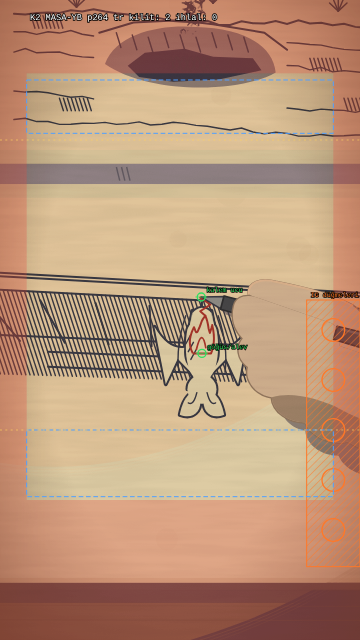
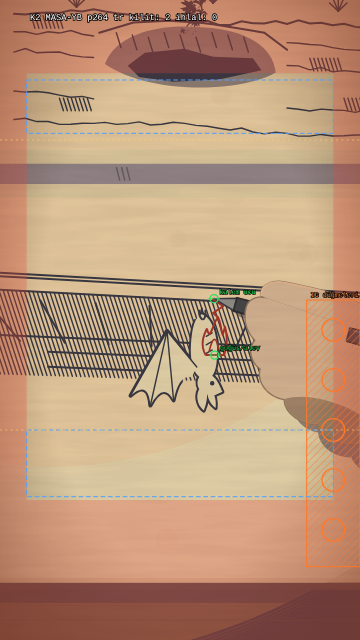
Kit yarasa: profil görünüşlü asılı yarasa, defter çizimi, yumuşak gök, P10 ön plan (kalibrasyon tur 3)
Claude-Session: https://claude.ai/code/session_016TQpGZNQxZz3y2EUbxhNYZ

diff --git a/src/kit/sablonlar/colus/ColUs.tsx b/src/kit/sablonlar/colus/ColUs.tsx
@@ -60,10 +60,11 @@ const Gok: React.FC<{ pr: Proj; g: Gorunum }> = ({ pr, g }) => {
   const dist = Math.max(0, -sun[0]);
   return (
     <g>
-      {sinir.map(([y, c], i) => <rect key={i} x={-1200} y={y} width={3480} height={(sinir[i + 1]?.[0] ?? U + 40) - y + 1} fill={c} />)}
-      {/* litografi geçişi: sınırın üstünde alt tonda 3 ince çizgi + nokta */}
-      {g !== "yanik" && sinir.slice(1).map(([y], i) => <g key={i}>
-        {Array.from({ length: 70 }).map((_, j) => <circle key={`n${j}`} cx={-200 + r(`gn${i}${j}`) * 1480} cy={y - 8 - r(`gy${i}${j}`) * 26} r={1.1} fill={sinir[i + 1][1]} opacity={0.6} />)}</g>)}
+      {/* 2. tur (orkestra): sert bant yok → aynı 5 tonla yumuşak dikey geçiş (bant merkezleri durak) */}
+      <defs><linearGradient id={`cuGok${g}`} gradientUnits="userSpaceOnUse" x1={0} y1={-2000} x2={0} y2={U + 40}>
+        {(g === "yanik" ? [...sinir.map(([y, c]) => [Math.max(y, 0) + (y > 0 ? 60 : 0), c] as [number, string]), [700, CP.gok[0]] as [number, string]] : sinir.map(([y, c], i) => [Math.max(-2000, (Math.max(y, -400) + (sinir[i + 1]?.[0] ?? U + 40)) / 2), c] as [number, string])).map(([m, c], i) => <stop key={i} offset={Math.min(1, (m + 2000) / (U + 2040))} stopColor={c} />)}
+        <stop offset={1} stopColor={sinir[sinir.length - 1][1]} /></linearGradient></defs>
+      <rect x={-1200} y={-2000} width={3480} height={U + 2042} fill={`url(#cuGok${g})`} />
       {/* güneş parıltısı: disk çizilmez; 4 düz halka (litografi basamağı, yumuşak gradyan yok) */}
       {g !== "yanik" && <><clipPath id="cuParilti"><rect x={-1200} y={U - 330 * f} width={3480} height={400} /></clipPath>
         <g style={{ mixBlendMode: "screen" }} clipPath="url(#cuParilti)">{[520, 300, 140].map((dr, i) => <circle key={i} cx={sun[0]} cy={sun[1]} r={dist + dr} fill="#f6dcb8" opacity={0.14} />)}</g></>}
@@ -327,7 +328,11 @@ const Golgeler: React.FC<{ pr: Proj; kat: "zemin" | "duvar" }> = ({ pr, kat }) =
 };
 
 // ---------- tünek dalgası + köz nabzı ----------
-type TunekP = { bas: number; bit: number; adet: number; seed?: number };
+// olcek: gövde boyu = 0.11 m × olcek (kalibrasyon 3: 1.6, yakın birey 360 px'te ≥ 60 px); yuzey: tünek id öneki süzgeci (ör. ["semer0"]);
+// acik_n: en yakın n birey kanadı yarı açık (taraklı kenar + parmak çizgileri net)
+type TunekP = { bas: number; bit: number; adet: number; seed?: number; olcek?: number; yuzey?: string[]; acik_n?: number };
+const tunekU = (td: TunekP, pr: Proj, v: V3) => 0.11 * (td.olcek ?? 1.6) * pr.pxm(v);
+const tunekYon = (sd: number, i: number): 1 | -1 => (random(`ty${sd}${i}`) < 0.5 ? 1 : -1);
 type Nabiz = { bas: number; periyot?: [number, number]; bit?: number };
 const nabizDeger = (nb: Nabiz | null, p: number, faz: number) => {
   if (!nb || p < nb.bas) return 0;
@@ -335,44 +340,47 @@ const nabizDeger = (nb: Nabiz | null, p: number, faz: number) => {
   const ph = Math.abs(T1 - T0) < 1e-3 ? x / T0 : (L / (T1 - T0)) * Math.log((T0 + (T1 - T0) * (x / L)) / T0) + Math.max(0, p - nb.bas - L) / T1;
   return 0.35 + 0.65 * (0.5 + 0.5 * Math.sin(2 * Math.PI * (ph + faz) - Math.PI / 2));
 };
-export const tunekListesi = (pr: Proj, adet: number) => TUNEKLER
+export const tunekListesi = (pr: Proj, adet: number, td?: TunekP) => TUNEKLER
+  .filter((t) => !td?.yuzey || td.yuzey.some((y) => t.id.startsWith(y)))
   .map((t) => ({ ...t, e: pr.P(t.v) }))
   .filter((t) => { // tank gövdesinin arkasında kalan tünek seçilmez (önde olan arkadakini örter)
     const c: V3 = [pr.kam.C[0], pr.kam.goz, pr.kam.C[1]], L: V3 = [t.v[0] - c[0], t.v[1] - c[1], t.v[2] - c[2]], s = tankKesis(c, L);
     return s === null || s > 0.97; })
   .filter((t) => t.e && t.e[0] > -60 && t.e[0] < 1140 && t.e[1] > -60 && t.e[1] < 1980)
   .sort((a, b) => pr.z(a.v) - pr.z(b.v)) // yakın önce; ekranda üst üste binen (aralık < 0.55 gövde boyu) elenir
-  .reduce((acc, t) => { const u = 0.11 * 1.25 * pr.pxm(t.v); if (!acc.some((q) => Math.abs(q.e![0] - t.e![0]) < 0.55 * u * 1.6 && Math.abs(q.e![1] - t.e![1]) < 1.6 * u)) acc.push(t); return acc; }, [] as (Tunek0 & { e: P | null })[])
+  .reduce((acc, t) => { const u = 0.11 * (td?.olcek ?? 1.6) * pr.pxm(t.v); if (!acc.some((q) => Math.abs(q.e![0] - t.e![0]) < 0.75 * u && Math.abs(q.e![1] - t.e![1]) < 1.2 * u)) acc.push(t); return acc; }, [] as (Tunek0 & { e: P | null })[])
   .sort((a, b) => a.e![0] - b.e![0]).slice(0, adet);
 type Tunek0 = (typeof TUNEKLER)[number];
 const Tunemis: React.FC<{ pr: Proj; plan: Plan; p: number; alev: boolean }> = ({ pr, plan, p, alev }) => {
   const td = param<TunekP | null>(plan, "tunek_dalgasi", null); if (!td) return null;
   const nb = param<Nabiz | null>(plan, "kapsul_nabiz", null), kv = param<{ kare: number; tunek: number }[]>(plan, "kivilcim_dizisi", []);
   const stil = alev ? "gomulu" : param<"gercek" | "gomulu">(plan, "tunek_stil", "gercek");
-  const L = tunekListesi(pr, td.adet), sd = td.seed ?? 5;
+  const L = tunekListesi(pr, td.adet, td), sd = td.seed ?? 5;
+  const yakin = [...L].sort((a, b) => pr.z(a.v) - pr.z(b.v)).slice(0, td.acik_n ?? 2).map((t) => t.id);
   return <g>{L.map((t, i) => {
     const a = td.bas + (td.bit - td.bas) * (L.length > 1 ? i / (L.length - 1) : 0) + (random(`tk${sd}${i}`) - 0.5) * 16;
-    const e = t.e!, u = 0.11 * 1.25 * pr.pxm(t.v), uc = 46;
+    const e = t.e!, u = tunekU(td, pr, t.v), uc = 46, yx = tunekYon(sd, i);
     const kivi = kv.find((q) => q.tunek === i && p >= q.kare);
     const kapsul = kivi ? "kivilcim" : nb && p >= nb.bas ? "koz" : "kapsul";
     const nab = nabizDeger(nb, p, random(`nf${sd}${i}`));
     if (p < a - uc) return null;
     if (p < a) { // uçarak gelir: soldan-alttan, kanat çırpar
       const q = (p - (a - uc)) / uc, e0: P = [e[0] - 420 - 160 * random(`tx${i}`), e[1] + 260 + 120 * random(`ty${i}`)];
-      const qq = GIRIS(q), x = e0[0] + (e[0] - e0[0]) * qq, y = e0[1] + (e[1] - e0[1]) * qq - Math.sin(Math.PI * q) * 90;
-      return <Yarasa key={i} z={{ x, y: y + 0.52 * u, u, faz: (p / 10) % 1, kanat: 0.05, aci: -20 + 30 * q, stil, kenar: true, kapsul }} />;
+      const qq = GIRIS(q), x = e0[0] + (e[0] - e0[0]) * qq, y = e0[1] + (e[1] - e0[1]) * qq + Math.sin(Math.PI * q) * 60; // tüneğe ALTTAN yaklaşır (kirişin üstünden aşmaz)
+      return <Yarasa key={i} z={{ x, y: y + 0.52 * u * Math.min(1, (1 - q) * 3) + 0.6 * u, u, faz: (p / 10) % 1, kanat: 0.05, aci: -20 + 30 * q, stil, kenar: true, kapsul }} />;
     }
-    const d = p - a, don = interpolate(d, [0, 10], [0, 180], { ...cl, easing: GIRIS }), kat = interpolate(d, [0, 16], [0.1, random(`kk${sd}${i}`) < 0.6 ? 0.68 : 0.92], { ...cl, easing: GIRIS });
-    const sallan = Math.sin(d / 9) * 6 * Math.exp(-d / 30);
-    return <Yarasa key={i} z={{ x: e[0], y: e[1], capa: "ayak", u, aci: 180 + sallan - (180 - don), kanat: kat, faz: 0.25, nefes: 0.5 + 0.5 * Math.sin(p / 9 + i), stil, kenar: stil === "gercek", kapsul, nabiz: nab }} />;
+    // temas: ayak tünek alt yüzüne değer → profil asılı görünüş; 10 karede ters döner (dönüş ayak çevresinde), 16 karede kanat yerleşir
+    const d = p - a, don = interpolate(d, [0, 10], [0, 180], { ...cl, easing: GIRIS }), kat = interpolate(d, [0, 16], [0.3, yakin.includes(t.id) ? 0.42 : 0.95], { ...cl, easing: GIRIS });
+    const sallan = Math.sin(d / 9) * 5 * Math.exp(-d / 30);
+    return <g key={i} transform={`rotate(${don - 180 + sallan} ${e[0]} ${e[1]})`}><Yarasa z={{ x: e[0], y: e[1], u, gorus: "profil", yonX: yx, kanat: kat, stil, kenar: stil === "gercek", kapsul, nabiz: nab, arkaIsik: true }} /></g>;
   })}</g>;
 };
 const Kivilcimlar: React.FC<{ pr: Proj; plan: Plan; p: number }> = ({ pr, plan, p }) => {
   const kv = param<{ kare: number; tunek: number; siddet?: number }[]>(plan, "kivilcim_dizisi", []), td = param<TunekP | null>(plan, "tunek_dalgasi", null);
   if (!kv.length || !td) return null;
-  const L = tunekListesi(pr, td.adet), cs = kameraHesapla(plan.kamera, p).cs;
+  const L = tunekListesi(pr, td.adet, td), cs = kameraHesapla(plan.kamera, p).cs, sd = td.seed ?? 5;
   return <g>{kv.map((q, i) => { const t = L[q.tunek]; if (!t || p < q.kare) return null;
-    const u = 0.11 * 1.25 * pr.pxm(t.v), e: P = [t.e![0], t.e![1] + 0.75 * u]; // kapsül başı (asılı: baş aşağı)
+    const u = tunekU(td, pr, t.v), e: P = [t.e![0] + 0.15 * u * tunekYon(sd, q.tunek), t.e![1] + 0.62 * u]; // profil: yan-göğüs kapsülün baş ucu
     const d = p - q.kare, sn = interpolate(d, [0, 10], [1, 0.5], cl), R = 60 / cs;
     return <g key={i}>
       <circle cx={e[0]} cy={e[1] - 0.25 * u} r={R} fill={YR.amber} opacity={0.28 * sn} />
@@ -506,7 +514,7 @@ const Sahne: React.FC<SablonProps> = ({ plan, p, kilit }) => {
   const katGor = (i: number) => !bs.aktif || bs.ilerle - i > 0;
   const tankZ = pr.z(W(0, TANK.t, 0));
   const calis = CALILAR.map((c) => ({ ...c, z: pr.z(c.v) })).filter((c) => c.z > 0.5);
-  if (td(plan)) tunekListesi(pr, td(plan)!.adet).forEach((t, i) => kilit.push({ ad: `tünek ${i}`, p: [540 + k.cx + (t.e![0] - 540) * k.cs, 960 + k.cy + (t.e![1] - 960) * k.cs], tur: "temas" }));
+  if (td(plan)) tunekListesi(pr, td(plan)!.adet, td(plan)!).forEach((t, i) => kilit.push({ ad: `tünek ${i}`, p: [540 + k.cx + (t.e![0] - 540) * k.cs, 960 + k.cy + (t.e![1] - 960) * k.cs], tur: "temas" }));
   const H = cizimHatlari();
   const T1 = [H.H2[0], H.H2[1], H.H3[1], H.H3[0]], T2 = [H.H3[0], H.H3[1], H.H4[1], H.H4[0]];
   const kx = interpolate(bs.kirmizi, [0, 1], [-200, 1280]);

diff --git a/src/kit/props/yarasa/Yarasa.tsx b/src/kit/props/yarasa/Yarasa.tsx
@@ -25,6 +25,8 @@ export type YarasaPoz = {
   basDon?: number;           // baş dönüşü (derece, yakın plan)
   ciz?: number;              // murekkep: çizim ilerlemesi 0…1 (stroke)
   gogusBos?: boolean;        // murekkep: göğüs boş daire (P02)
+  gorus?: "on" | "profil";   // profil: asılı (baş aşağı) yan görünüş — ayaklar (x,y)'de, gövde aşağı sarkar; aci yok sayılır
+  yonX?: 1 | -1;             // profil: karın yönü (ekranda sağ +1 / sol −1)
 };
 
 export const YR = {
@@ -85,7 +87,63 @@ export const Kapsul: React.FC<{ durum: KapsulDurum; nabiz?: number; w: number }>
   );
 };
 
+// ---- PROFİL ASILI (kalibrasyon 3, orkestra yönü): ayak (0,0) tünekte, gövde +y'ye sarkar, baş en altta (sivri kulak + burun).
+// Kanat k: 1 katlı (bilek ayak yanında, önkol sırtta, başparmak tüneğe yakın) … 0.4 yarı açık (zar aşağı-dışa sarkar: taraklı kenar + parmak çizgileri).
+// Kapsül yan-göğüste, boy ≤ %22 gövde, mat; köz yalnız uçta küçük çekirdek. x ekseni karın yönüne göre (yonX) aynalanır.
+const pl = (a: P, b: P, t: number): P => [a[0] + (b[0] - a[0]) * t, a[1] + (b[1] - a[1]) * t];
+export const profilNokta = (kanat: number) => {
+  const t = Math.min(1, Math.max(0, (1 - kanat) / 0.6)); // 0 katlı … 1 yarı açık
+  const omuz: P = [-0.06, 0.66], bilek = pl([-0.1, 0.1], [-0.42, 0.24], t), d3 = pl([-0.16, 0.86], [-0.86, 1.0], t), d4 = pl([-0.14, 0.82], [-0.62, 1.12], t), d5 = pl([-0.11, 0.78], [-0.34, 1.06], t);
+  return { omuz, bilek, d3, d4, d5, govdeYan: [-0.12, 0.78] as P, kapsul: [0.15, 0.5] as P };
+};
+const profilYollar = (kanat: number) => {
+  const K = profilNokta(kanat), F = (q: P) => `${q[0].toFixed(3)},${q[1].toFixed(3)}`;
+  const zar = `M${F(K.omuz)} L${F(K.bilek)} L${F(K.d3)} ${tarak(K.d3, K.d4, K.bilek, 0.3)} ${tarak(K.d4, K.d5, K.bilek, 0.3)} ${tarak(K.d5, K.govdeYan, K.bilek, 0.25)} Z`;
+  const kemik = `M${F(K.omuz)} L${F(K.bilek)} M${F(K.bilek)} L${F(K.d3)} M${F(K.bilek)} L${F(K.d4)} M${F(K.bilek)} L${F(K.d5)}`;
+  const govde = "M0,0.04 C0.16,0.1 0.2,0.4 0.17,0.62 C0.15,0.76 0.1,0.8 0.04,0.8 C-0.08,0.8 -0.14,0.62 -0.13,0.42 C-0.12,0.2 -0.08,0.06 0,0.04 Z";
+  const bas = "M0.04,0.74 C0.16,0.74 0.2,0.86 0.24,0.95 L0.15,0.99 C0.1,1.0 0.02,0.98 -0.03,0.92 C-0.08,0.84 -0.04,0.74 0.04,0.74 Z"; // burun +x-aşağı
+  const kulak = "M-0.02,0.9 C-0.08,0.98 -0.06,1.1 0.02,1.17 C0.06,1.08 0.07,0.98 0.05,0.92 Z M0.06,0.93 C0.06,1.02 0.1,1.1 0.16,1.14 C0.17,1.06 0.15,0.98 0.12,0.95 Z"; // iki sivri kulak, en altta
+  const ayak = "M-0.03,0.0 Q-0.04,0.06 0,0.1 M0.04,0.0 Q0.05,0.06 0.02,0.1";
+  return { K, zar, kemik, govde, bas, kulak, ayak };
+};
+const ProfilAsili: React.FC<{ z: YarasaPoz }> = ({ z }) => {
+  const kanat = z.kanat ?? 0.9, Y = profilYollar(kanat), sx = z.yonX ?? 1, w = 1 / z.u, stil = z.stil ?? "gercek";
+  const T = `translate(${z.x},${z.y}) scale(${sx * z.u},${z.u})`;
+  if (stil === "murekkep") {
+    const c = Math.max(0, Math.min(1, z.ciz ?? 1)); if (c <= 0) return null;
+    const st = { stroke: YR.murekkep, strokeWidth: 7 * w, strokeLinejoin: "round" as const, strokeLinecap: "round" as const, pathLength: 1, strokeDasharray: `${c} 1.02`, fill: "none" };
+    const parca = (q: Record<string, unknown>) => <><path d={Y.zar} {...q} /><path d={Y.govde} {...q} /><path d={Y.bas} {...q} /><path d={Y.kulak} {...q} /></>;
+    return <g transform={T}>{parca(st)}<g transform={`translate(0,0) scale(${Math.min(1, c * 2)})`}>{parca({ fill: "#e6d8b9", stroke: "none" })}</g>
+      {c >= 1 && <g stroke={YR.murekkep} strokeWidth={2.5 * w} fill="none" strokeLinecap="round"><path d={Y.kemik} /><path d={Y.ayak} strokeWidth={3.5 * w} /><circle cx={0.12} cy={0.85} r={0.018} fill={YR.murekkep} />
+        {!z.gogusBos && [0, 1, 2].map((i) => <line key={i} x1={0.05} y1={0.3 + i * 0.1} x2={0.12} y2={0.26 + i * 0.1} />)}</g>}</g>;
+  }
+  const renk = stil === "gomulu" ? YR.gomulu : null;
+  const zar = renk ?? (z.arkaIsik ? YR.zarArka : YR.zar), gov = renk ?? YR.govde;
+  const kont = renk ? {} : { stroke: YR.kontur, strokeWidth: 2.5 * w, strokeLinejoin: "round" as const };
+  const n = z.kapsul === "koz" || z.kapsul === "kivilcim" ? Math.max(0, Math.min(1, z.nabiz ?? 0)) : 0, K = Y.K;
+  return (
+    <g transform={T}>
+      {!renk && z.kenar && <g fill={YR.kenar} transform={`translate(${-2 * w * sx},${-1.6 * w})`}><path d={Y.zar} /><path d={Y.govde} /><path d={Y.bas} /><path d={Y.kulak} /></g>}
+      <path d={Y.zar} fill={zar} {...kont} />
+      {!renk && <path d={Y.kemik} fill="none" stroke={YR.govdeGolge} strokeWidth={2 * w} strokeLinecap="round" />}
+      <path d={Y.ayak} fill="none" stroke={renk ?? YR.kontur} strokeWidth={3 * w} strokeLinecap="round" />
+      <path d={Y.govde} fill={gov} {...kont} />
+      {!renk && <path d="M-0.13,0.42 C-0.12,0.2 -0.08,0.06 0,0.04 C-0.04,0.2 -0.06,0.5 -0.03,0.78 C-0.1,0.74 -0.14,0.6 -0.13,0.42 Z" fill={YR.govdeGolge} opacity={0.7} />}
+      <path d={Y.kulak} fill={renk ?? YR.govde} {...kont} />
+      <path d={Y.bas} fill={gov} {...kont} />
+      {!renk && <><circle cx={0.12} cy={0.85} r={0.022} fill="#1c1915" /><circle cx={0.115} cy={0.845} r={Math.max(0.008, 0.8 * w)} fill="#e6d8b9" /><path d="M0.2,0.93 L0.24,0.95" stroke={YR.kontur} strokeWidth={2 * w} /></>}
+      {!renk && <path d={`M${K.bilek[0]},${K.bilek[1]} q-0.06,-0.02 -0.07,-0.07`} fill="none" stroke={YR.kontur} strokeWidth={2.4 * w} strokeLinecap="round" />}
+      {z.kapsul && z.kapsul !== "yok" && <g>
+        <rect x={0.115} y={0.42} width={0.07} height={0.2} rx={0.035} fill={YR.amber} stroke={YR.amberKontur} strokeWidth={1.2 * w} />
+        <circle cx={0.15} cy={0.62} r={0.018 + 0.012 * n} fill={n > 0 ? YR.koz : YR.amberKontur} />
+        {z.kapsul === "kivilcim" && <circle cx={0.15} cy={0.65} r={0.03} fill={YR.hilal} />}
+      </g>}
+    </g>
+  );
+};
+
 export const Yarasa: React.FC<{ z: YarasaPoz }> = ({ z }) => {
+  if (z.gorus === "profil") return <ProfilAsili z={z} />;
   const kanat = z.kanat ?? 0, faz = z.faz ?? 0, stil = z.stil ?? "gercek", aci = z.aci ?? 0;
   const acikl = 3.1 * z.u * (1 - 0.55 * kanat); // ekrandaki yaklaşık genişlik (LOD ölçüsü)
   const capaY = z.capa === "ayak" ? -AYAK[1] : 0;
@@ -94,7 +152,7 @@ export const Yarasa: React.FC<{ z: YarasaPoz }> = ({ z }) => {
   const renk = stil === "siluet" ? YR.siluet : stil === "gomulu" ? YR.gomulu : stil === "murekkep" || stil === "dolu" ? YR.murekkep : YR.govde;
   // --- LOD ---
   if (acikl < 6) return <circle cx={z.x} cy={z.y} r={Math.max(1, acikl / 3)} fill={renk} />;
-  if (acikl < 18 && stil !== "murekkep") {
+  if (acikl < 12 && stil !== "murekkep") {
     const K = kanatNoktalari(kanat, faz);
     const d = `M${f([-K.d3[0], K.d3[1]])} L${f([-K.bilek[0], K.bilek[1]])} L${f([-K.dirsek[0], K.dirsek[1]])} L0,0 L${f(K.dirsek)} L${f(K.bilek)} L${f(K.d3)}`;
     return <g transform={T}><path d={d} fill="none" stroke={renk} strokeWidth={Math.max(1.6, acikl / 7) * w} strokeLinejoin="round" strokeLinecap="round" /><ellipse cx={0} cy={0.05} rx={0.2} ry={0.36} fill={renk} /></g>;

diff --git a/src/kit/sablonlar/masayb/MasaYb.tsx b/src/kit/sablonlar/masayb/MasaYb.tsx
@@ -63,7 +63,7 @@ export const altSayfaCizim = (() => {
   const kap = [26, 52].map((d) => { const a = H3[0], b = H3[1], t0 = (ALT[0] + 180 - a[0]) / (b[0] - a[0]), t1 = (ALT[0] + 620 - a[0]) / (b[0] - a[0]); return [[a[0] + (b[0] - a[0]) * t0, a[1] + (b[1] - a[1]) * t0 + d], [a[0] + (b[0] - a[0]) * t1, a[1] + (b[1] - a[1]) * t1 + d]] as P[]; });
   // yarasa: yerel x ≈ 409 (dekor 519) en yakın merteğin alın ucundan asılı
   const m4 = M.reduce((b, m) => (Math.abs(m[1][0] - 519) < Math.abs(b[1][0] - 519) ? m : b), M[0]);
-  const ayak: P = [m4[1][0], m4[1][1] + 4], u = 150, gogus: P = [ayak[0], ayak[1] + 0.5 * u];
+  const ayak: P = [m4[1][0], m4[1][1] + 4], u = 150, gogus: P = [ayak[0] + 0.15 * u, ayak[1] + 0.52 * u]; // profil asılı: yan-göğüs
   const cati: { a: P[]; tur: "hat" | "tarama" }[] = [
     { a: H1, tur: "hat" }, { a: H1b, tur: "hat" }, { a: H2, tur: "hat" }, ...M.map((m) => ({ a: m, tur: "hat" as const })), { a: H3, tur: "hat" },
     ...T1.map((s) => ({ a: s as P[], tur: "tarama" as const })), ...T2.map((s) => ({ a: s as P[], tur: "tarama" as const })), ...kap.map((k) => ({ a: k, tur: "hat" as const })),
@@ -125,7 +125,7 @@ const Notlar: React.FC<{ o: P; xs: [number, number][]; seed: string }> = ({ o, x
 );
 
 // ---------- üst sayfa: mağara + sürü ----------
-export const DEFTER_SURU: SuruAyar = { n: 90, seed: 223, kaynak: [540, 1080], a: 10, b: 0.06, yon: -1, omega: 0.05, yukselis: 0.75, egim: 0.3, kayma: 0.2, u: [3.5, 11], mod: "surekli", donem: 760, stil: "dolu" };
+export const DEFTER_SURU: SuruAyar = { n: 90, seed: 223, kaynak: [540, 1080], a: 10, b: 0.06, yon: -1, omega: 0.05, yukselis: 0.75, egim: 0.3, kayma: 0.2, u: [6, 13], mod: "surekli", donem: 760, stil: "dolu" };
 const UstSayfa: React.FC<{ prm: Record<string, unknown>; p: number }> = ({ prm, p }) => {
   const o = UST, L = (x: number, y: number): P => [o[0] + x, o[1] + y];
   const suru = { ...DEFTER_SURU, ...((prm.suru as Partial<SuruAyar>) ?? {}) }, canli = prm.canli !== false, pe = canli ? p : 0;
@@ -185,7 +185,7 @@ const AltSayfa: React.FC<{ a: AltP; p: number }> = ({ a, p }) => {
         void l0;
         return <polyline key={s.i} points={pts(s.a)} fill="none" stroke={renk} strokeWidth={tarama ? 2.5 : 3.5} strokeLinecap="round" strokeLinejoin="round" />;
       })}
-      {yar > 0 && <Yarasa z={{ x: C.ayak[0], y: C.ayak[1], capa: "ayak", u: C.u, aci: 180, kanat: 0.7, stil: "murekkep", ciz: yar, gogusBos: a.gogus_bos && alv <= 0 }} />}
+      {yar > 0 && <Yarasa z={{ x: C.ayak[0], y: C.ayak[1], gorus: "profil", yonX: 1, u: C.u, kanat: 0.42, stil: "murekkep", ciz: yar, gogusBos: a.gogus_bos && alv <= 0 }} />}
       {dmla > 0 && p <= (a.durak?.bit ?? 0) + 2 && <circle cx={C.gogus[0]} cy={C.gogus[1]} r={dmla} fill={MY.islak} />}
       {alv > 0 && <polygon points={pts(C.alev)} fill="none" stroke={MY.kirmizi} strokeWidth={3.5} strokeLinejoin="round" pathLength={1} strokeDasharray={`${alv} 1.02`} />}
       {alv >= 1 && <path d={`M${C.gogus[0] - 10},${C.gogus[1] - 6} Q${C.gogus[0]},${C.gogus[1] - 48} ${C.gogus[0] + 7},${C.gogus[1] - 9}`} fill="none" stroke={MY.kirmizi} strokeWidth={3} />}

diff --git a/bolumler/yarasa-bombasi/katki-raporu.md b/bolumler/yarasa-bombasi/katki-raporu.md
@@ -115,3 +115,10 @@
 | P12 A | — | MASA-YB cs 1.25→1.9, cy −612→−1303, `geri` p82–96 | kesmede çizim = yanik saçağı |
 - Uyguladığım kurallar / ölçüm: renk-olcum (tam boy): K1 sıcak %18.3 / p95 L* 75.7 · K2 p264 %26.6 / 81.2 · K2 p310 %24.2 / 81.2 (kırmızı %3.6, izinli tarama + çatı alevi) · K3 %19.5 / 76.5 · P10 p60 %18.4 / 76.5 · P10 p200 %52.1 / 80.1. Güvenli alan ihlali 0. Kendi bakışım (360 px): asılı yarasa yarı açık kanatlı bireylerde "yarasa", katlı bireylerde hâlâ "kapsüllü küçük oval" sınırında; X05 uyuyan yarasa artık yarasa (kulak, yüz, parmaklı kanat); çalı bitki; duman duman (hafif boncuk izi kalıyor); K3 tank kararmış. Match cut: P12 A110 ↔ B1 şeridinde saçak bandı aynı ekran yerinde (eleştirideki ~100 px fark K2 kamerasıyla K3 karşılaştırmasından geliyordu; P12 A kamerasıyla fark görülmüyor). Hareket şeritleri: P09 p0–372 (dolly, tünme, kıpırtısız tutma), P12 A68–B30 (geri çizim büzülerek, kırmızı→kömür, 4 katman baskı; fade yok), S8 p262–352.
 - Açık sorular / bir sonraki ajana notlar: (a) Katlı asılı yarasa 360'ta en zayıf okuma; gerekirse tünekte kanat oranı tamamen yarı açık yapılabilir ya da P09 cs 2.8 (katalog sınırı içinde). (b) P10 p108 kontrol karesinde alev kadraj dışında (cs 2.53 sabit); alevin göründüğü kare p150+; yönetmen kontrol_kare'yi p150'ye almalı. (c) P10 kompars siluet hâlâ kurulmadı. (d) P12 A→B kesmesinde kâğıt tonu farkı (defter havuz tonu ↔ `CP.kagit`) küçük sıçrama yapıyor. (e) Lamba havuzu basamakları ("hedef tahtası") dokunulmadı. (f) Commit edilmedi.
+
+## motion · 2026-11-15 · Düzeltme turu 2 (orkestra: asılı yarasa "fener/baykuş", gök bantları, P10 alt üçte bir)
+- Ne yaptım: Yarasa rig'ine `gorus: "profil"` + `yonX` (aynı rig, aynı oran/renk): asılı yan görünüş; ayak tünek alt yüzünde, baş en altta (iki sivri kulak + burun + göz), katlıda önkol sırtta + bilekte başparmak, yarı açıkta (kanat 0.42) taraklı zar + parmak kemiği çizgileri; kapsül yan-göğüste ≤ %22 gövde, mat, köz yalnız uçta küçük çekirdek. Tünek: `olcek` 1.6 (yakın birey 360 px'te ≈ 60 px), `yuzey ["semer0"]` (yalnız yakın kiriş alt yüzü), `acik_n` 2 (en yakın iki birey kanadı yarı açık), `adet` 4; ayak temasında profil görünüşe geçer ve ayak çevresinde 10 karede ters döner; uçuş tüneğe ALTTAN yaklaşır. Defter (P02/P03) yarasası aynı profil biçimi (mürekkep), sürü LOD "M" eşiği 18 → 12 px, defter sürü boyu 6–13. Gök: sert bantlar yerine aynı 5 tonla yumuşak dikey geçiş (yanik'te gül kuşağı ufka doğru sıcak kalacak durak). P10'a `on_plan` (ön plan çalısı + uzun gölgesi).
+- Dokunduğum dosyalar: `src/kit/props/yarasa/Yarasa.tsx`, `src/kit/sablonlar/colus/ColUs.tsx`, `src/kit/sablonlar/masayb/MasaYb.tsx`, `bolumler/yarasa-bombasi/kalibrasyon/{bolum-kit-test.json, K1-P09-p300*, K2-P03-p264*, K2-P03-p310*, K3-P12B-p88*, P10-p60*, P10-p200*, S-P09-p0-372-her4.png, renk-olcum.txt}`.
+- Kararlar (yönetmen plana işlesin): P09 tünme temasları **p196–250** (uçuşlar p150 dolly bitişinden sonra başlar; önceki p150 başlangıcında uçan birey dolly sırasında kirişin önünde/üstünde okunuyordu). Yarasa ekran ölçeği gerçeğin ≈ ×1.6'sı (stilize, okunurluk). Tasarım §1.4 "yumuşak gradyan yok" gökte orkestra yönüyle değişti (onaylı yön değişikliği olarak not). **P10 kamera önerisi:** son geniş kare cs 1.0 yerine cs 1.12, cy −120 (tank + alev orta üçte bire iner, alt üçte birde ön plan çalısı ve gölgesi kalır).
+- Ölçüm (tam boy): K1 sıcak %17.3 / p95 L* 76.2 · K2 p264 %25.9 / 81.2 · K2 p310 %24.3 / 81.2 (kırmızı %3.7 izinli) · K3 %20.0 / 78.0 · P10 p60 %17.5 / 77.2 · P10 p200 %44.7 / 79.8. 360 px kendi bakışım: K1 asılı yarasalar ("yarasa": taraklı kanat, kulaklar altta), K2 çizim yarasa (profil, taraklı kanat; "kuş" değil), P10 gök şeritsiz.
+- Açık: P10 kompars hâlâ yok; P10 alt üçte bir yalnız ön plan çalısıyla doluyor, kamera önerisi yönetmende; uçuşta önden → asılıyken profil görünüş geçişi temas karesinde (hızlı hareket anı) yapılıyor.
